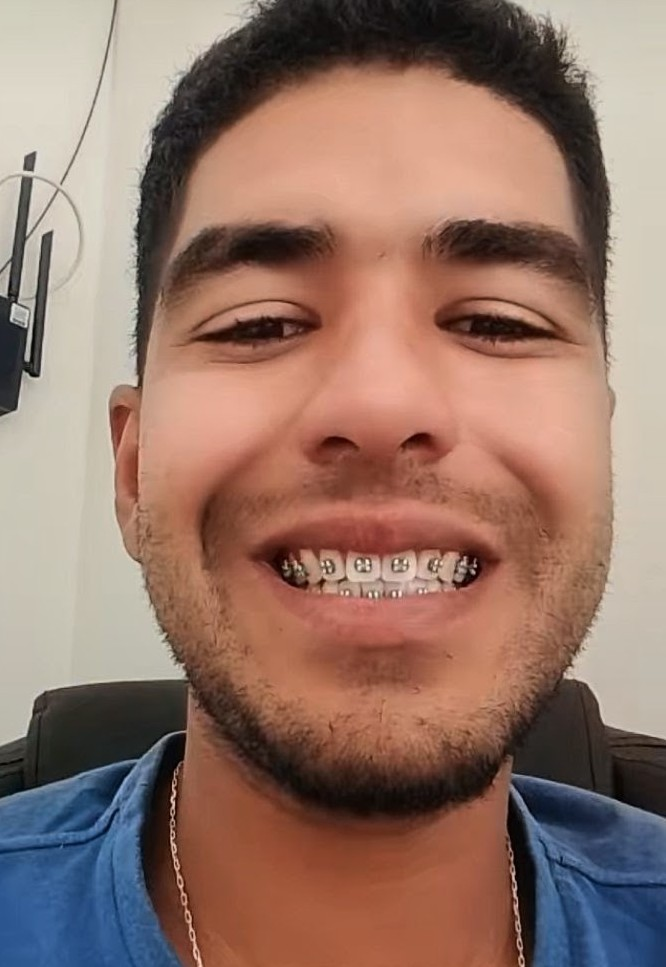
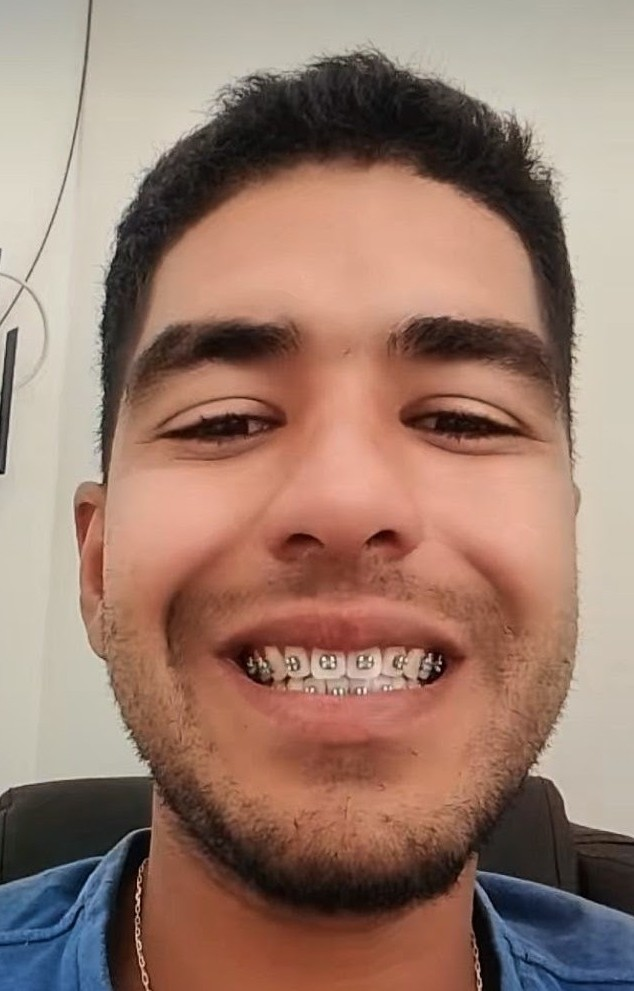
hahaha

diff --git a/index.html b/index.html
@@ -141,8 +141,8 @@ header{flex-wrap:wrap;row-gap:10px}
 .cover-img{position:absolute;inset:0;width:100%;height:100%;object-fit:cover;object-position:center top;z-index:0;display:block}
 .cover span,.cover em{position:relative;z-index:1}
 .cover:has(.cover-img)::before,.cover:has(.cover-img)::after{display:none}
-.hero-photo{position:relative;width:150px;height:150px;border-radius:50%;border:2px dashed rgba(0,212,255,.55);box-shadow:0 0 0 5px rgba(0,212,255,.10);margin:8px auto 30px;display:flex;align-items:center;justify-content:center;overflow:hidden;color:var(--mut);font-size:.7rem;text-align:center;line-height:1.2;padding:8px;cursor:zoom-in;transition:transform .35s ease,box-shadow .35s ease;z-index:2}
-.hero-photo img{position:absolute;inset:0;width:100%;height:100%;object-fit:cover;object-position:center top;border-radius:50%}
+.hero-photo{position:relative;width:150px;height:150px;border-radius:18px;border:1px solid rgba(0,212,255,.35);box-shadow:0 0 0 5px rgba(0,212,255,.08);margin:8px auto 30px;display:flex;align-items:center;justify-content:center;overflow:hidden;color:var(--mut);font-size:.7rem;text-align:center;line-height:1.2;padding:8px;cursor:zoom-in;transition:transform .35s ease,box-shadow .35s ease;z-index:2}
+.hero-photo img{position:absolute;inset:0;width:100%;height:100%;object-fit:cover;object-position:center top;border-radius:18px}
 .hero-photo span{position:relative}
 
 .hero,.statsblk,.intro{margin-left:auto;margin-right:auto;text-align:center}
@@ -155,6 +155,7 @@ header{flex-wrap:wrap;row-gap:10px}
 .stack{text-align:center}
 .hero-photo:hover,.hero-photo:focus-visible{transform:scale(1.5);box-shadow:0 0 0 6px rgba(0,212,255,.18),0 16px 40px rgba(0,212,255,.3)}
 @media(min-width:900px){.hero-photo{width:180px;height:180px}}
+.hero-photo img{border-radius:18px}
 .photo-zoom{position:fixed;inset:0;z-index:60;background:rgba(0,0,0,.88);display:flex;align-items:center;justify-content:center;padding:20px;cursor:zoom-out}
 .photo-zoom[hidden]{display:none}
 .photo-zoom img{max-width:100%;max-height:90vh;width:auto;height:auto;border-radius:16px;box-shadow:0 20px 60px rgba(0,0,0,.6)}
